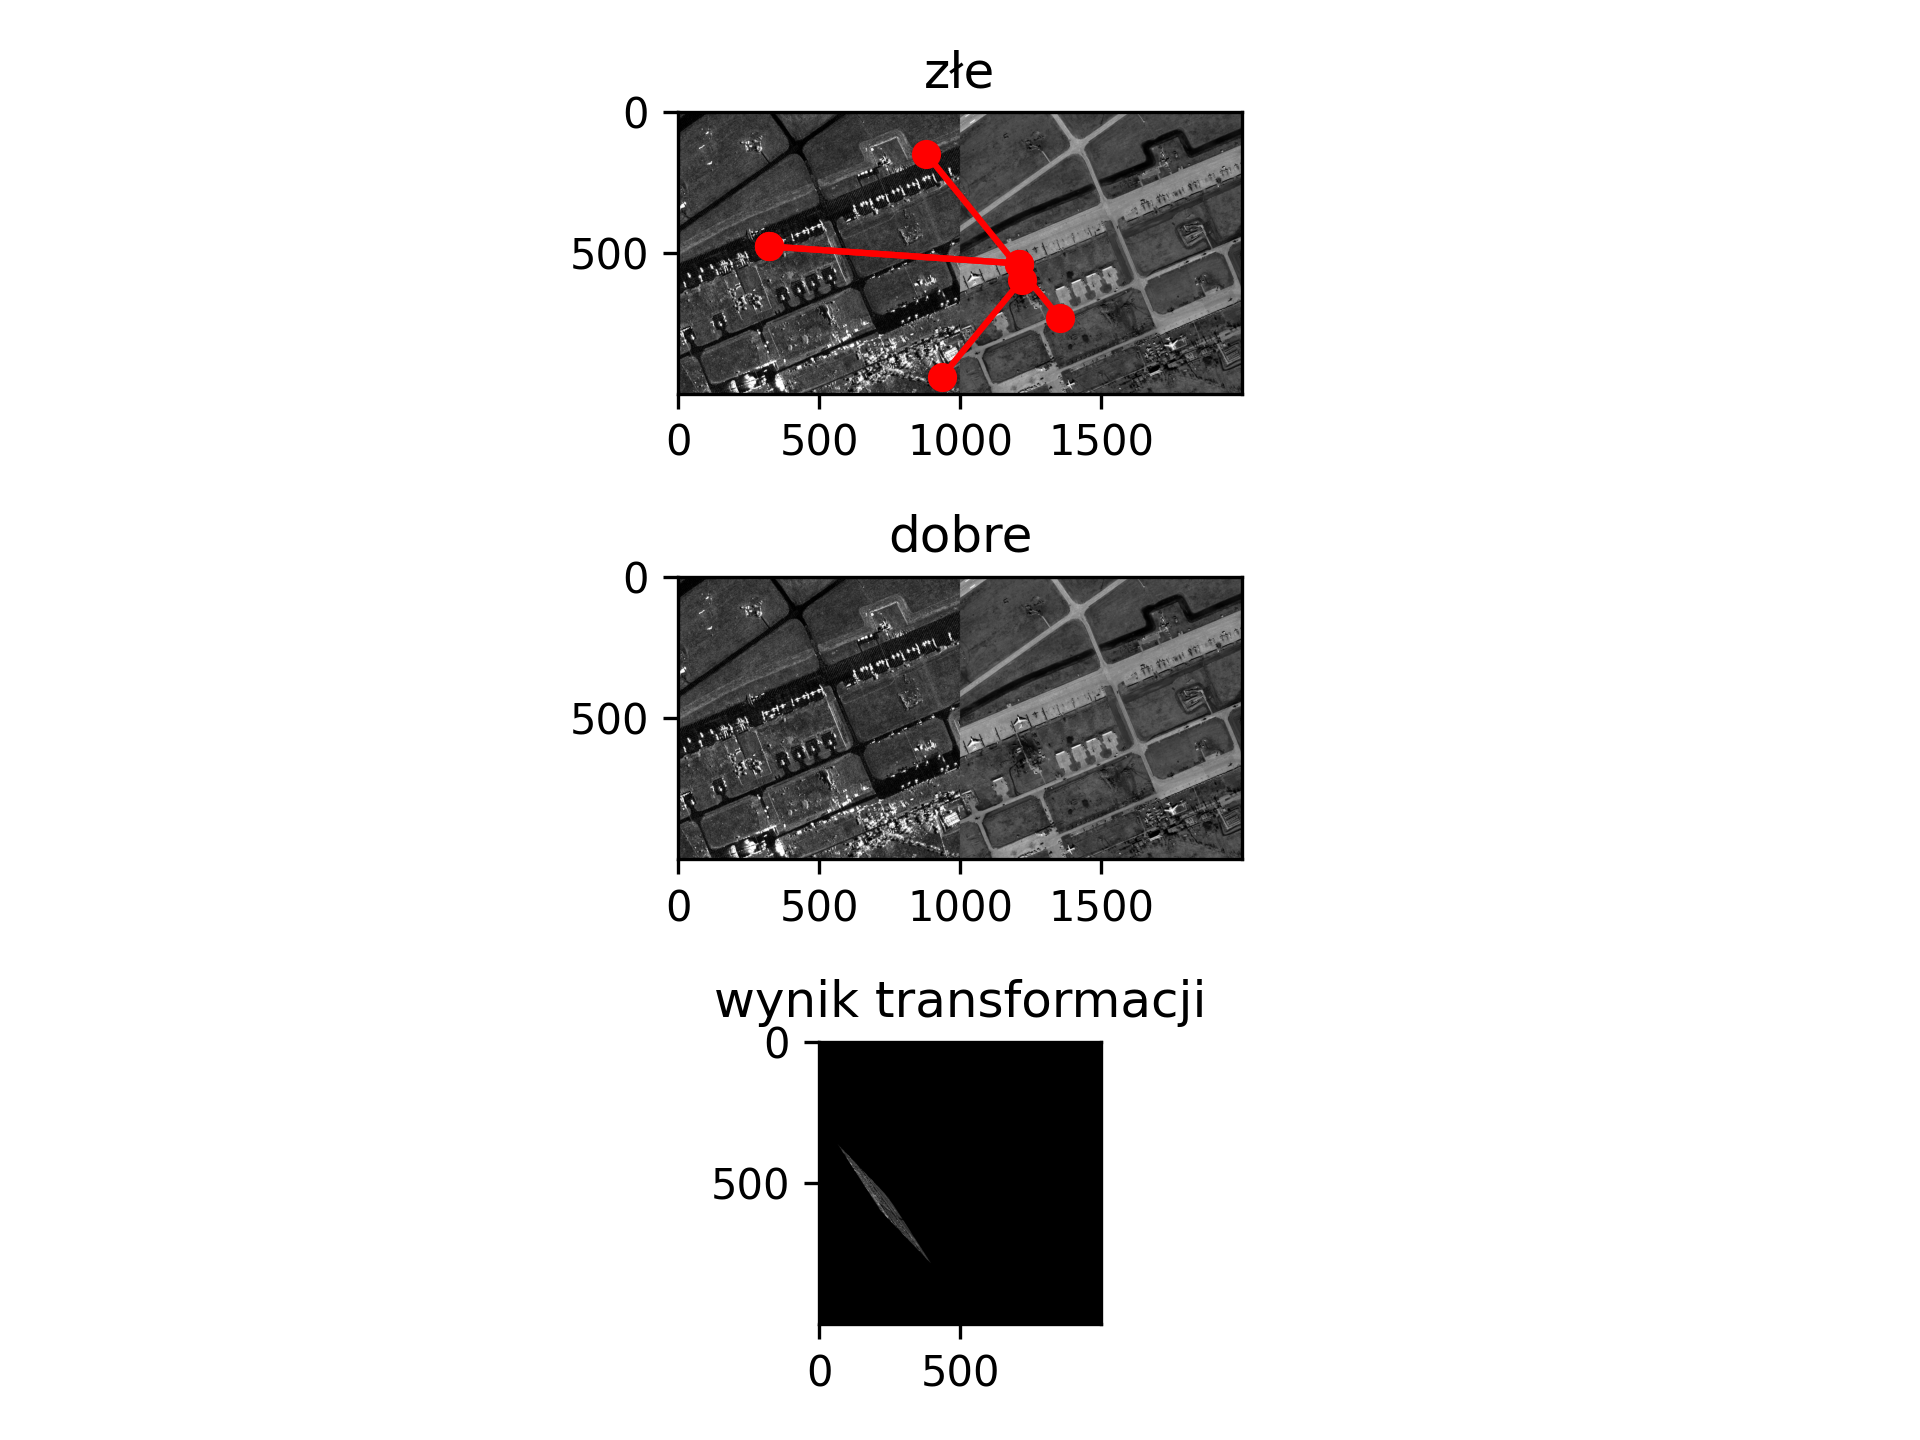
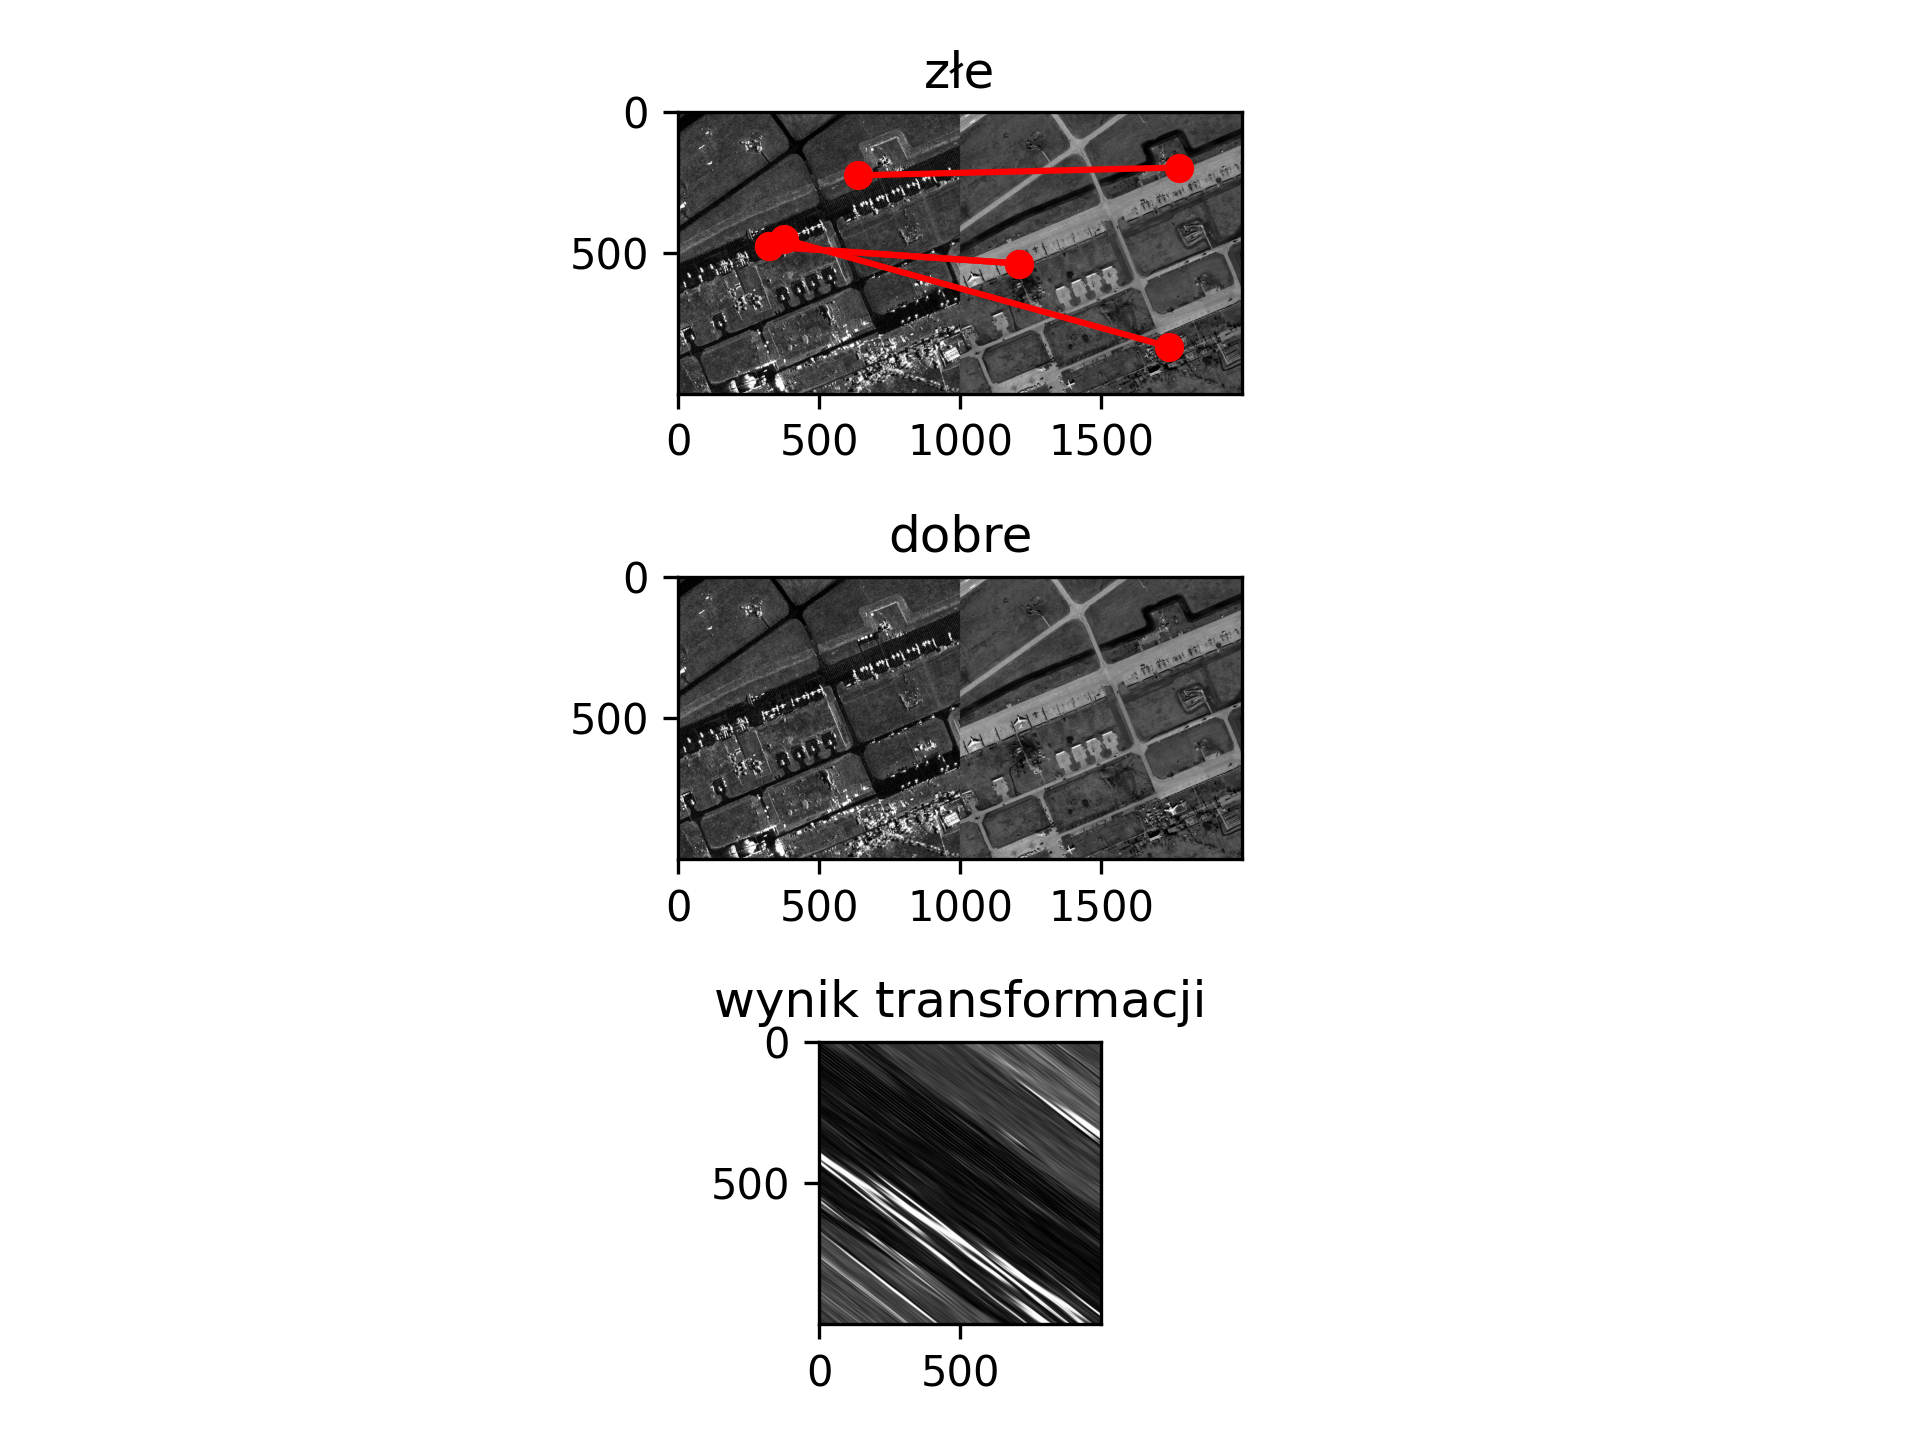
new version of raport generator

diff --git a/SIFT_just_New_Maching_View_CMR_Final_MS_Maching copy.py b/SIFT_just_New_Maching_View_CMR_Final_MS_Maching copy.py
@@ -7,13 +7,8 @@ import time
 from Quality import RMSE
 from Quality import Calc_and_Visual
 total_time = 0
-#   SIFT
-start_time = time.time()
-sift = cv2.SIFT_create()
-end_time = time.time()
-sift_init_time = end_time - start_time 
-total_time+=sift_init_time
-print("Initial SIFT time:\t",sift_init_time)
+
+
 #   WCZYTANIE DANYCH
 ptk_PNEO = np.genfromtxt(r"RefPoints/UTM_URRC_PNEO.csv", delimiter=',',dtype=np.float32)
 print(ptk_PNEO)
@@ -21,9 +16,9 @@ ptk_CAPELLA = np.genfromtxt(r"RefPoints/UTM_URRC_CAPELLA.csv", delimiter=',',dty
 print(ptk_CAPELLA)
 
 data = "URRC"
-scales = ["10","1","035"]
-norms = ["gray","log","bad"]
-#range = [[],[],[]]
+scales = ["1"]
+norms = ["gray"]
+
 if os.path.exists(f"report_{data}_SIFT/report_{data}_SIFT.html"):
     print("Istnieje !!!")
 else:
@@ -32,12 +27,17 @@ else:
             for n,norm in enumerate(norms):
                     print(f"SAR_{data}_SUB_{scale}m_{norm} -> EO_{data}_SUB_{scale}m_gray.png")
                     raport.write(f"<h1>SAR_{data}_SUB_{scale}m_{norm} -> EO_{data}_SUB_{scale}m_gray.png</h1>")
+                    #IMREAD
                     img1 = cv2.imread(f"Norm/SAR_{data}_SUB_{scale}m_{norm}.png",0)
-                    print()
                     img2 = cv2.imread(f"Norm/EO_{data}_SUB_{scale}m_gray.png",0)
-                    #img1 = img1[range[s][0]:range[s][1], range[s][0]:range[s][1]]
-                    #img2 = img2[range[s][0]:range[s][1], range[s][0]:range[s][1]]
-
+                    #SIFT
+                    start_time = time.time()
+                    sift = cv2.SIFT_create()
+                    end_time = time.time()
+                    sift_init_time = end_time - start_time 
+                    total_time+=sift_init_time
+                    print("Init SIFT time:\t",sift_init_time)
+                    raport.write(f"<p>Init SIFT time:   {sift_init_time}</p>")
                     #   START
                     start_time = time.time()
                     kp1, des1 = sift.detectAndCompute(img1, None)
@@ -46,12 +46,12 @@ else:
                     sift_detect_time = end_time - start_time 
                     total_time+=sift_detect_time
                     print("Detect SIFT time:\t",sift_detect_time)
-                    raport.write(f"<p>Detect SIFT time:   {sift_detect_time}</p>")
                     print("KP1:", len(kp1))
                     print("KP2:", len(kp2))
                     out1 = cv2.drawKeypoints(img1, kp1, None)
                     out2 = cv2.drawKeypoints(img2, kp2, None)
-
+                    print(out1)
+                    print(out2)
                     #   MACHING
                     #   FLANN
                     start_time = time.time()
@@ -86,6 +86,7 @@ else:
                     print("Liczba dobrych dopasowań:", len(good_matches))
                     raport.write(f"<p>Ratio test time:   {ratio_test_time}</p>")
                     raport.write(f"<p>Liczba dobrych dopasowań:   {len(good_matches)}</p>")
+
                     #   RANSAC
                     start_time = time.time()
                     pts1 = np.float32([kp1[m.queryIdx].pt for m in good_matches]).reshape(-1, 2)
@@ -95,6 +96,7 @@ else:
                     total_time+=RANSAC_init_time
                     print("RANSAC_init_time:\t",ratio_test_time)
                     raport.write(f"<p>RANSAC_init_time:   {ratio_test_time}</p>")
+
                     start_time = time.time()
                     if len(pts1) >=3:
                         M, mask = cv2.estimateAffine2D(pts1, pts2, method=cv2.RANSAC, ransacReprojThreshold=2.0)
@@ -118,6 +120,7 @@ else:
                     total_time+=RANSAC_model_time
                     print("RANSAC_model_time:\t",ratio_test_time)
                     raport.write(f"<p>RANSAC_model_time:   {ratio_test_time}</p>")
+
                     # mask = 1 czyli dobre dopasowanie
                     good_matches_masked = [m for m, inlier in zip(good_matches, mask) if inlier]
                     bad_matches_masked  = [m for m, inlier in zip(good_matches, mask) if not inlier]
@@ -133,31 +136,19 @@ else:
                     rmse_1,blad = RMSE.calculate_RMSE(M,src_pts,dst_pts)
                     rmse_2,blad = RMSE.calculate_RMSE(M,ptk_CAPELLA,ptk_PNEO)
 
-                    CMR_corr,rmse_3,blad_3,corr_mask =  RMSE.calculate_CMR_mask(ptk_CAPELLA,ptk_PNEO,src_pts,dst_pts,1)
-                    #corr_mask = corr_mask.ravel().astype(bool)
+                    CMR_corr,rmse_3,blad_3 =  RMSE.calculate_CMR(ptk_CAPELLA,ptk_PNEO,src_pts,dst_pts,1)
                     #print("RMSE:\t", RMSE*0.35)
                     #PRZED
                     h,w = img1.shape
                     image = cv2.warpAffine(img1,M,(h,w))
                     #image = cv2.warpAffine(img1,M2,(h,w))
                     tytuły = ["złe","dobre","wynik transformacji"]
-                    #points = [pts1[~corr_mask],pts1[corr_mask],pts2[~corr_mask],pts2[corr_mask]]
-
-                    
-
-                    bad_src  = pts1[~mask]
-                    good_src = pts1[mask]
-
-                    bad_dst  = pts2[~mask]
-                    good_dst = pts2[mask]
-
-                    points = [bad_src, good_src, bad_dst, good_dst]
+                    points = [pts1[~mask],pts1[mask],pts2[~mask],pts2[mask]]
                     color = ['r','g']
                     fig, axes = plt.subplots(3, 1)
-                    
-                    for i in range(3) :
+                    for i in range(3):
                         if i == 2:
-                            axes[i].imshow(image,cmap="gray",origin="upper")
+                            axes[i].imshow(image,cmap="gray")
                         else:
                             Calc_and_Visual.show_maches_in_axis(axes[i],img1,img2,points[i],points[i+2],color[i])
                         axes[i].set_title(tytuły[i])
@@ -165,7 +156,18 @@ else:
                     plt.savefig(f"report_{data}_SIFT/SAR_{data}_SUB_{scale}m_{norm}-EO_{data}_SUB_{scale}m_gray_bad.png", dpi=300,)
                     raport.write(f"<img src='SAR_{data}_SUB_{scale}m_{norm}-EO_{data}_SUB_{scale}m_gray_bad.png'/>")
                     #plt.show()
-                    
+
+
+                    CMR_corr,rmse_3,blad_3,corr_mask =  RMSE.calculate_CMR_mask(ptk_CAPELLA,ptk_PNEO,src_pts,dst_pts,1)
+                    #corr_mask = corr_mask.ravel().astype(bool)
+                    #print("RMSE:\t", RMSE*0.35)
+                    #PRZED
+                    # h,w = img1.shape
+                    # image = cv2.warpAffine(img1,M,(h,w))
+                    #image = cv2.warpAffine(img1,M2,(h,w))
+                    tytuły = ["złe","dobre","wynik transformacji"]
+                    #points = [pts1[~corr_mask],pts1[corr_mask],pts2[~corr_mask],pts2[corr_mask]]
+
                     corr_mask = corr_mask.ravel().astype(bool)
 
                     bad_src  = src_pts[~corr_mask]
@@ -177,7 +179,7 @@ else:
                     points = [bad_src, good_src, bad_dst, good_dst]
                     color = ['r','g']
                     fig, axes = plt.subplots(3, 1)
-                    for i in range(3):
+                    for i in range(3) :
                         if i == 2:
                             axes[i].imshow(image,cmap="gray",origin="upper")
                         else:
@@ -186,9 +188,8 @@ else:
                     plt.tight_layout()
                     plt.savefig(f"report_{data}_SIFT/SAR_{data}_SUB_{scale}m_{norm}-EO_{data}_SUB_{scale}m_gray.png", dpi=300,)
                     #plt.show()
-                    
-                    raport.write(f"<img src='SAR_{data}_SUB_{scale}m_{norm}-EO_{data}_SUB_{scale}m_gray.png'/>")
 
+                    raport.write(f"<img src='SAR_{data}_SUB_{scale}m_{norm}-EO_{data}_SUB_{scale}m_gray.png'/>")
                     print(f"Norm/SAR_{data}_SUB_{scale}m_{norms} -> Norm/EO_{data}_SUB_{scale}m_gray.png")
                     raport.write(f"<p>Norm/SAR_{data}_SUB_{scale}m_{norms} -> Norm/EO_{data}_SUB_{scale}m_gray</p>")
                     print(f"N corr:\t{N_corr}\nN maches:\t{N_maches}\nCMR: {CMI*100}\nCMR corr:\t{CMR_corr}\nRMSE: \t{rmse_1*0.35}\nRMSE Kontrol:\t{rmse_2*0.35}\nTotal Time: \t{total_time}")
@@ -199,8 +200,6 @@ else:
                     raport.write(f"error<br>")
                     print(blad_3)
                     raport.write(f"{blad_3}<br>")
-
-
 #for point in kp1:
 #    print(point.pt)
 """plt.title("złe")

diff --git a/SIFT_just_New_Maching_View_CMRpy copy.py b/SIFT_just_New_Maching_View_CMRpy copy.py
@@ -1,0 +1,185 @@
+#   LIBRARIES
+import os
+import cv2
+import numpy as np
+import matplotlib.pyplot as plt 
+import time
+from Quality import RMSE
+from Quality import Calc_and_Visual
+total_time = 0
+#   SIFT
+start_time = time.time()
+sift = cv2.SIFT_create()
+end_time = time.time()
+sift_init_time = end_time - start_time 
+total_time+=sift_init_time
+print("Initial SIFT time:\t",sift_init_time)
+#   WCZYTANIE DANYCH
+img1 = cv2.imread(r"Norm/SAR_URRC_SUB_1m_gray.png",0)
+img2 = cv2.imread(r"Norm/EO_URRC_SUB_1m_gray.png",0)
+ptk_PNEO = np.genfromtxt(r"RefPoints/UTM_URRC_PNEO.csv", delimiter=',',dtype=np.float32)
+print(ptk_PNEO)
+ptk_CAPELLA = np.genfromtxt(r"RefPoints/UTM_URRC_CAPELLA.csv", delimiter=',',dtype=np.float32)
+print(ptk_CAPELLA)
+
+print("\t***img1***")
+print(img1.shape)
+print(img1.max())
+print(img1.min())
+print("\t***img2***")
+print(img2.shape)
+print(img2.max())
+print(img2.min())
+
+img1 = img1[0:1500, 0:1500]
+img2 = img2[0:1500, 0:1500]
+
+#   START
+start_time = time.time()
+kp1, des1 = sift.detectAndCompute(img1, None)
+kp2, des2 = sift.detectAndCompute(img2, None)
+end_time = time.time()
+sift_detect_time = end_time - start_time 
+total_time+=sift_detect_time
+print("Detect SIFT time:\t",sift_detect_time)
+print("KP1:", len(kp1))
+print("KP2:", len(kp2))
+out1 = cv2.drawKeypoints(img1, kp1, None)
+out2 = cv2.drawKeypoints(img2, kp2, None)
+
+#   MACHING
+#   FLANN
+start_time = time.time()
+FLANN_INDEX_KDTREE = 1
+index_params = dict(algorithm=FLANN_INDEX_KDTREE, trees=5)
+search_params = dict(checks=50)
+flann = cv2.FlannBasedMatcher(index_params, search_params)
+end_time = time.time()
+flann_init_time = end_time - start_time 
+total_time+=flann_init_time
+print("FLANN initial time:\t",flann_init_time)
+
+#   KNN MACHING
+start_time = time.time()
+matches = flann.knnMatch(des1, des2, k=2)
+end_time = time.time()
+flann_maching_time = end_time - start_time 
+total_time+=flann_maching_time
+print("FLANN Maching time:\t",flann_init_time)
+
+#   RATIO TEST LOWE
+start_time = time.time()
+good_matches = []
+for m, n in matches:
+    if m.distance < 0.7 * n.distance:
+        good_matches.append(m)
+end_time = time.time()
+ratio_test_time = end_time - start_time 
+total_time+=ratio_test_time
+print("Ratio test time:\t",ratio_test_time)
+print("Liczba dobrych dopasowań:", len(good_matches))
+
+#   RANSAC
+start_time = time.time()
+pts1 = np.float32([kp1[m.queryIdx].pt for m in good_matches]).reshape(-1, 2)
+pts2 = np.float32([kp2[m.trainIdx].pt for m in good_matches]).reshape(-1, 2)
+end_time = time.time()
+RANSAC_init_time = end_time - start_time 
+total_time+=RANSAC_init_time
+print("RANSAC_init_time:\t",ratio_test_time)
+
+start_time = time.time()
+M, mask = cv2.estimateAffine2D(pts1, pts2, method=cv2.RANSAC, ransacReprojThreshold=2.0)
+
+print(M)
+mask = mask.ravel().astype(bool)
+src_pts = pts1[mask]
+dst_pts = pts2[mask]
+M2 = cv2.getAffineTransform(src_pts[:3],dst_pts[:3])
+print(M2)
+end_time = time.time()
+RANSAC_model_time = end_time - start_time 
+total_time+=RANSAC_model_time
+print("RANSAC_model_time:\t",ratio_test_time)
+
+# mask = 1 czyli dobre dopasowanie
+good_matches_masked = [m for m, inlier in zip(good_matches, mask) if inlier]
+bad_matches_masked  = [m for m, inlier in zip(good_matches, mask) if not inlier]
+
+N_corr = np.sum(mask)
+N_maches = len(mask)
+CMI = N_corr/ N_maches
+mask = mask.ravel().astype(bool)
+src_pts = pts1[mask]
+dst_pts = pts2[mask]
+
+#print(M)
+rmse_1,blad = RMSE.calculate_RMSE(M,src_pts,dst_pts)
+rmse_2,blad = RMSE.calculate_RMSE(M,ptk_CAPELLA,ptk_PNEO)
+
+CMR_corr,rmse_3,blad_3 =  RMSE.calculate_CMR(ptk_CAPELLA,ptk_PNEO,src_pts,dst_pts,1)
+#print("RMSE:\t", RMSE*0.35)
+#PRZED
+h,w = img1.shape
+image = cv2.warpAffine(img1,M,(h,w))
+#image = cv2.warpAffine(img1,M2,(h,w))
+tytuły = ["złe","dobre","wynik transformacji"]
+points = [pts1[~mask],pts1[mask],pts2[~mask],pts2[mask]]
+color = ['r','g']
+fig, axes = plt.subplots(3, 1)
+for i in range(3):
+    if i == 2:
+        axes[i].imshow(image,cmap="gray")
+    else:
+        Calc_and_Visual.show_maches_in_axis(axes[i],img1,img2,points[i],points[i+2],color[i])
+    axes[i].set_title(tytuły[i])
+plt.tight_layout()
+plt.show()
+
+
+CMR_corr,rmse_3,blad_3,corr_mask =  RMSE.calculate_CMR_mask(ptk_CAPELLA,ptk_PNEO,src_pts,dst_pts,1)
+#corr_mask = corr_mask.ravel().astype(bool)
+#print("RMSE:\t", RMSE*0.35)
+#PRZED
+# h,w = img1.shape
+# image = cv2.warpAffine(img1,M,(h,w))
+#image = cv2.warpAffine(img1,M2,(h,w))
+tytuły = ["złe","dobre","wynik transformacji"]
+#points = [pts1[~corr_mask],pts1[corr_mask],pts2[~corr_mask],pts2[corr_mask]]
+
+corr_mask = corr_mask.ravel().astype(bool)
+
+bad_src  = src_pts[~corr_mask]
+good_src = src_pts[corr_mask]
+
+bad_dst  = dst_pts[~corr_mask]
+good_dst = dst_pts[corr_mask]
+
+points = [bad_src, good_src, bad_dst, good_dst]
+color = ['r','g']
+fig, axes = plt.subplots(3, 1)
+for i in range(3) :
+    if i == 2:
+        axes[i].imshow(image,cmap="gray",origin="upper")
+    else:
+        Calc_and_Visual.show_maches_in_axis(axes[i],img1,img2,points[i],points[i+2],color[i])
+    axes[i].set_title(tytuły[i])
+plt.tight_layout()
+plt.show()
+#plt.show()
+
+
+#for point in kp1:
+#    print(point.pt)
+"""plt.title("złe")
+plt.imshow(result)
+plt.subplot(3,1,2)
+plt.title("dobre")
+plt.imshow(result2)
+plt.subplot(3,1,3)
+plt.title("dobre")
+plt.imshow(image,cmap="gray")
+plt.show()"""
+print(f"N corr:\t{N_corr}\nN maches:\t{N_maches}\nCMR: {CMI*100}\nCMR corr:\t{CMR_corr}\nRMSE: \t{rmse_1*0.35}\nRMSE Kontrol:\t{rmse_2*0.35}\nTotal Time: \t{total_time}")
+print(f"CMR corr:\t{CMR_corr}\nRMSE: \t{rmse_3*0.35}")
+print(blad_3)
